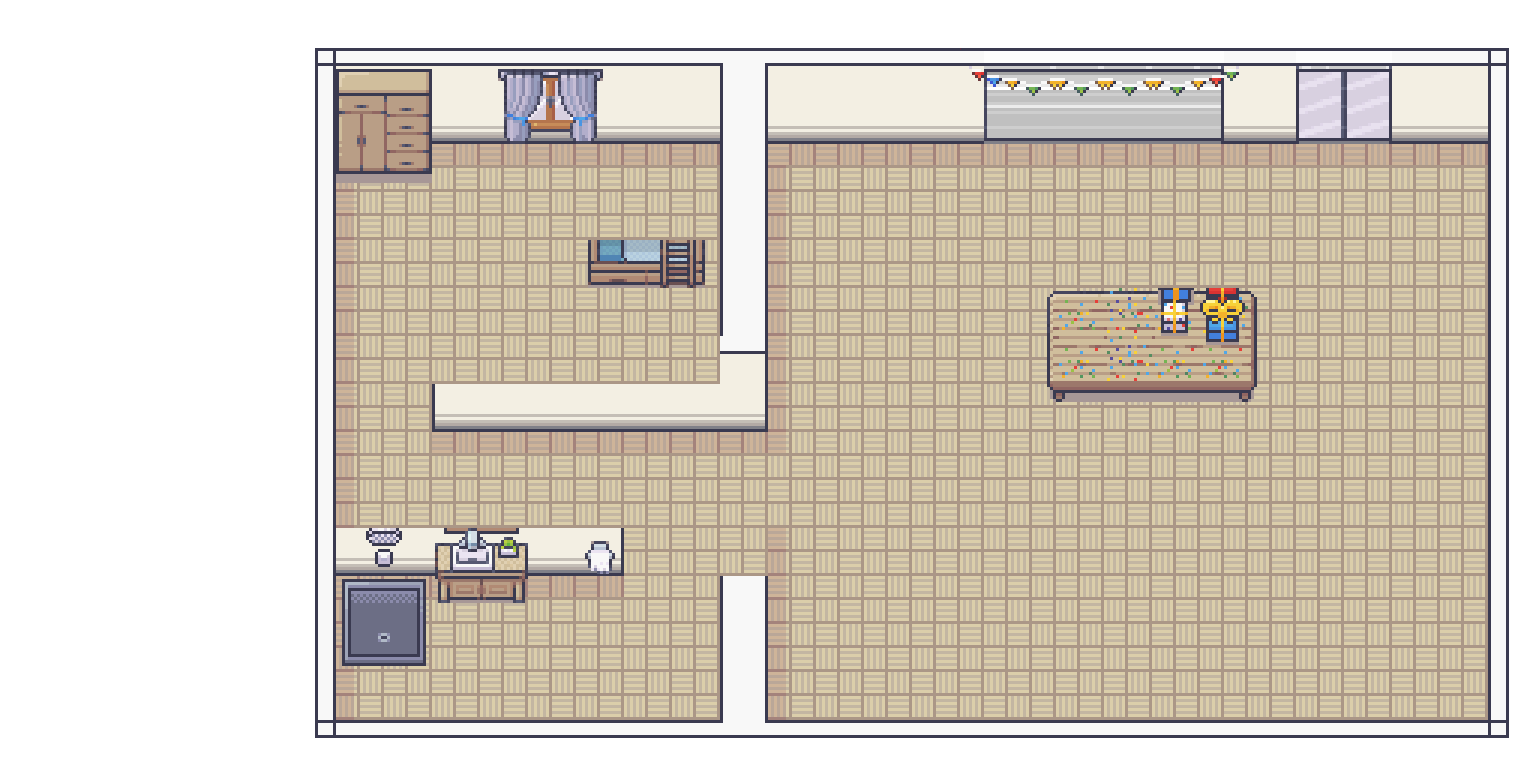
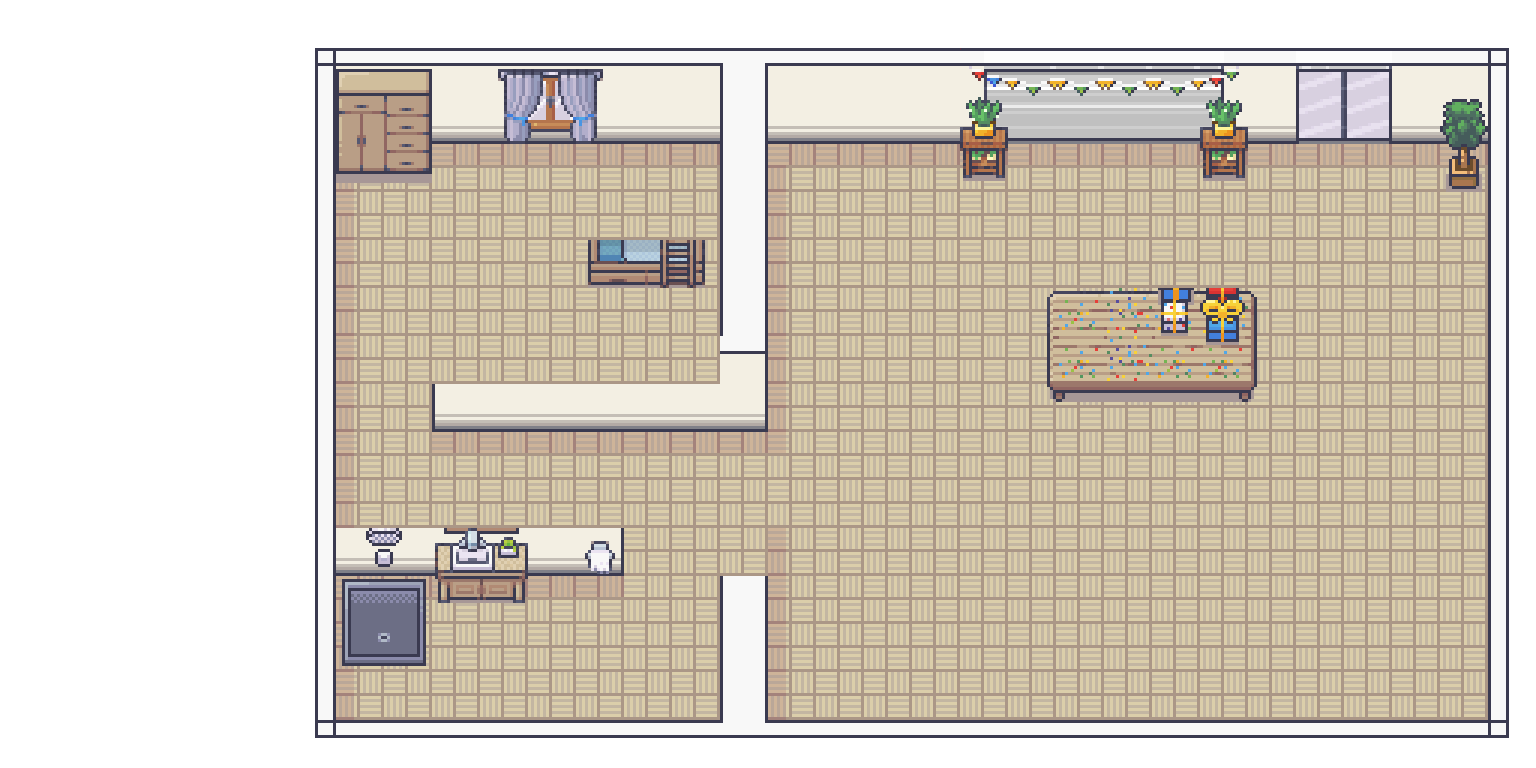
Show Objects layer

Changed region(s): [[0.9375, 0.125, 0.9688, 0.25], [0.7812, 0.125, 0.8125, 0.25], [0.625, 0.125, 0.6562, 0.25]]

diff --git a/src/components/game-scene/area-component.ts b/src/components/game-scene/area-component.ts
@@ -33,6 +33,11 @@ export class AreaComponent extends BaseGameSceneComponent {
       .setOrigin(0)
       .setDepth(Depth.Foreground);
 
+    this.host.add
+      .image(0, 0, getAreaImage(this.area, ImageType.Objects), 0)
+      .setOrigin(0)
+      .setDepth(Depth.Objects);
+
     const map = this.host.make.tilemap({ key: `${this.area}-map` });
 
     const collisionTiles = map.addTilesetImage(
@@ -53,8 +58,10 @@ export class AreaComponent extends BaseGameSceneComponent {
       throw new Error("Error while creating collision layer!");
     }
 
-    this.#collisionLayer = collisionLayer.setDepth(Depth.Collision).setAlpha(0);
-    this.#collisionLayer.setCollision([2]);
+    this.#collisionLayer = collisionLayer
+      .setDepth(Depth.Collision)
+      .setAlpha(0.3);
+    this.#collisionLayer.setCollision([collisionLayer.tileset[0].firstgid]);
   }
 
   get collisionLayer(): Phaser.Tilemaps.TilemapLayer {

diff --git a/src/common/assets.ts b/src/common/assets.ts
@@ -17,6 +17,7 @@ export const ImageType = {
   Background: "background",
   Collision: "collision",
   Foreground: "foreground",
+  Objects: "objects",
 } as const;
 
 type ImageType = (typeof ImageType)[keyof typeof ImageType];
@@ -25,6 +26,7 @@ const AreaImage = {
   "house-background": "house-background",
   "house-collision": "house-collision",
   "house-foreground": "house-foreground",
+  "house-objects": "house-objects",
 } as const satisfies Partial<Record<`${Area}-${ImageType}`, string>>;
 
 export function getAreaImage(area: Area, type: ImageType) {
@@ -42,7 +44,7 @@ export const TilesetType = {
 type TilesetType = (typeof TilesetType)[keyof typeof TilesetType];
 
 const AreaTileset = {
-  "house-collision": "interior",
+  "house-collision": "collision",
 } as const satisfies Partial<Record<`${Area}-${TilesetType}`, string>>;
 
 export function getAreaTileset(area: Area, type: TilesetType) {

diff --git a/src/common/config.ts b/src/common/config.ts
@@ -1,6 +1,7 @@
 export const Depth = {
   Background: 0,
-  Player: 1,
-  Foreground: 2,
-  Collision: 3,
+  Collision: 1,
+  Player: 2,
+  Foreground: 3,
+  Objects: 4,
 } as const;
